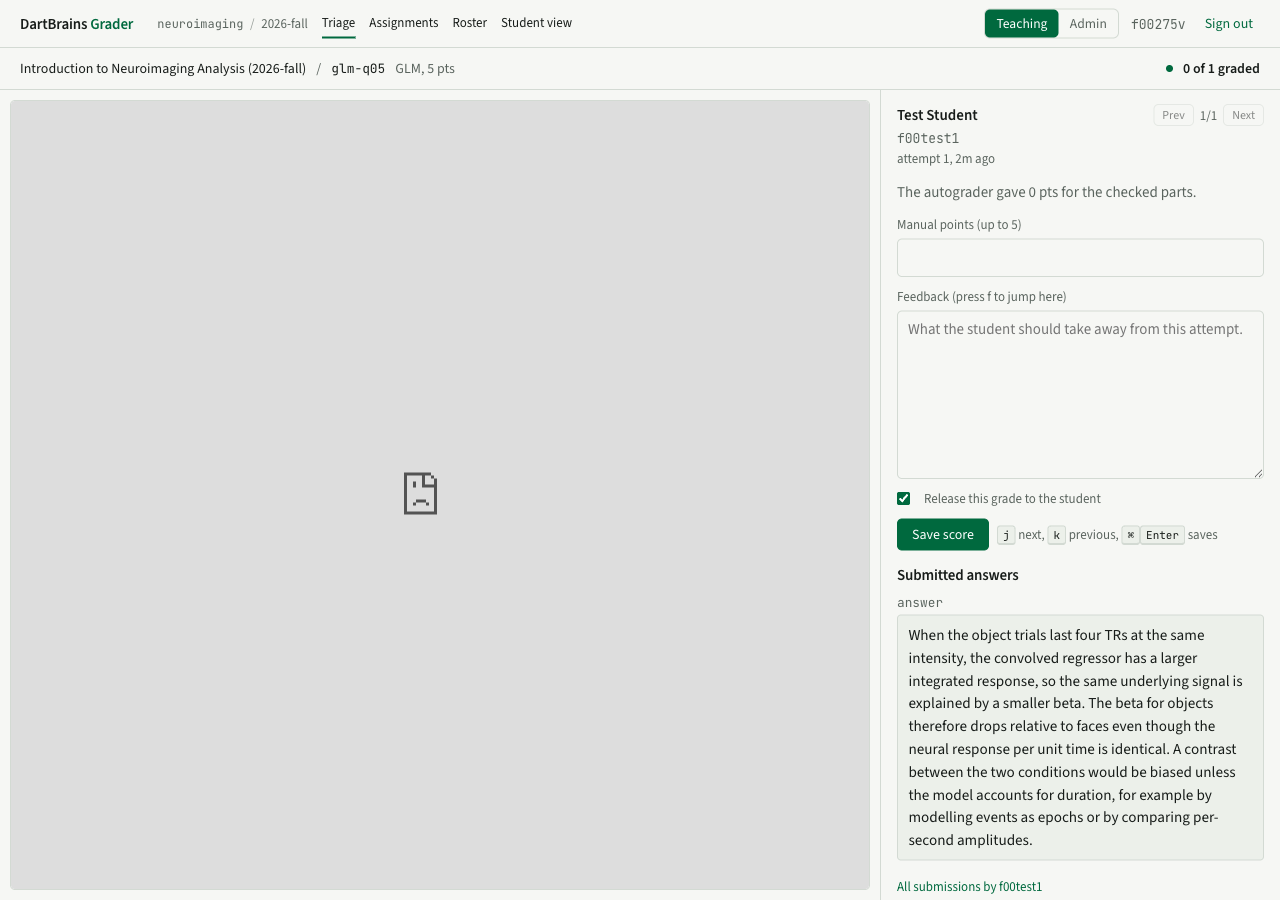
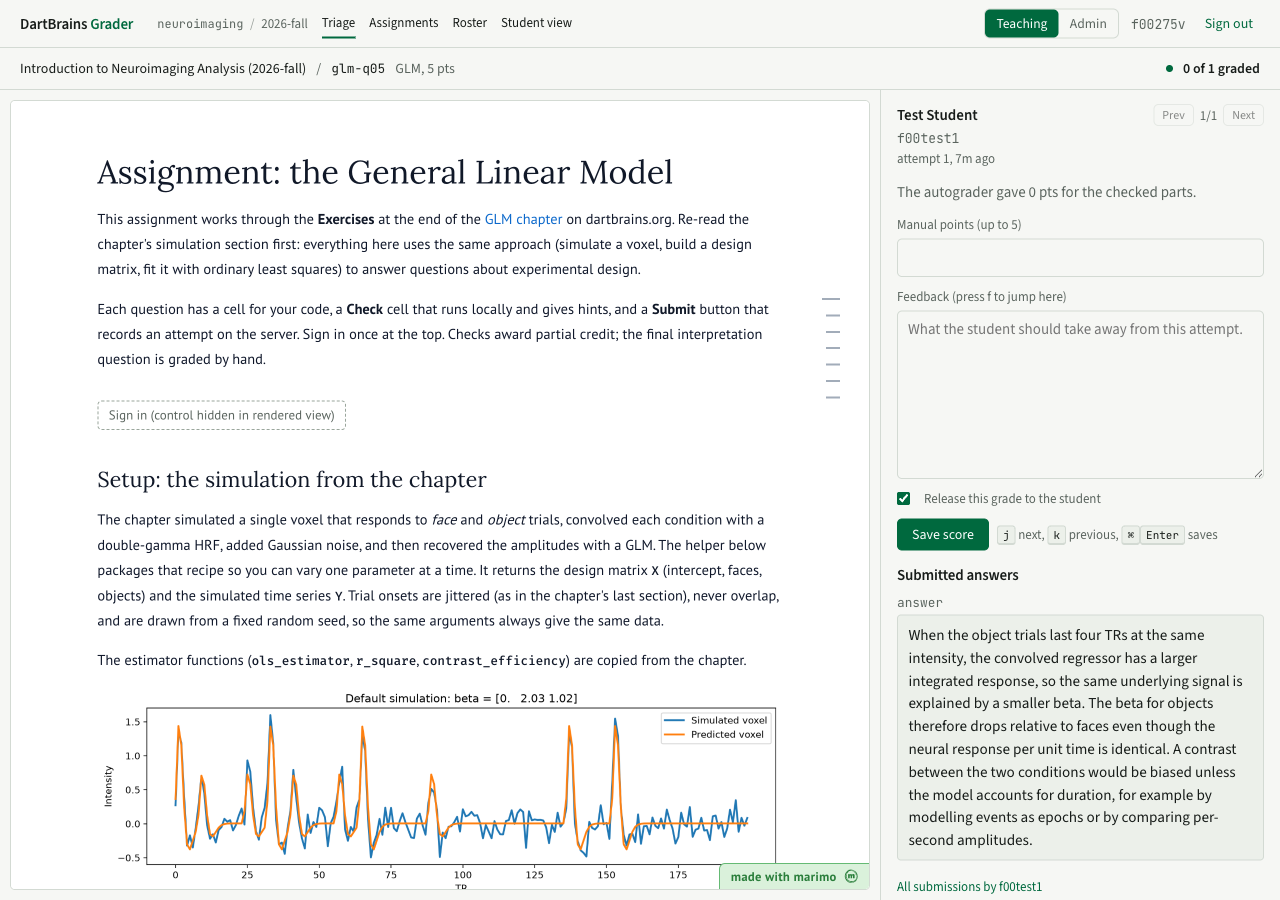
Docs: image paths for nested pages, grading queue screenshot with the rendered notebook
Claude-Session: https://claude.ai/code/session_01LxQNaj6rRGwBGe138hd53U

diff --git a/docs/content/instructors/grading.md b/docs/content/instructors/grading.md
@@ -6,7 +6,7 @@ For instructors and TAs. Where to look, what to grade, and how scores become gra
 
 The course page answers one question first: who needs my attention? A list at the top shows only the items that need a person:
 
-![The course page: a Needs attention list above the class progress grid, one column per question](../images/course-page.png)
+![The course page: a Needs attention list above the class progress grid, one column per question](../../images/course-page.png)
 
 The screenshot shows a course with one assignment open and nothing waiting: the attention list collapses to a single line and the grid carries the detail.
 
@@ -23,7 +23,7 @@ Below it, **Class progress** is a grid of students by question for the selected 
 
 Each hand-graded or hybrid question has a queue: one entry per student, showing their latest attempt, ungraded ones first and oldest first.
 
-![The grading queue: the rendered notebook on the left, score, feedback, and the student's written answer on the right](../images/grading-queue.png)
+![The grading queue: the rendered notebook on the left, score, feedback, and the student's written answer on the right](../../images/grading-queue.png)
 
 The rendered notebook fills the left pane; the right pane holds the score, the feedback box, and any written answers the student submitted.
 

diff --git a/docs/content/instructors/roster-and-staff.md b/docs/content/instructors/roster-and-staff.md
@@ -11,7 +11,7 @@ Students are never typed in by hand. The roster page imports a file, shows you e
 3. Review the four lists: students to add, students to drop, section moves, and rows that could not be matched. Untick anything you do not want applied.
 4. Press **Apply**.
 
-![The roster page: import from Canvas or Banner, add teaching staff, and the current roster](../images/roster.png)
+![The roster page: import from Canvas or Banner, add teaching staff, and the current roster](../../images/roster.png)
 
 Matching uses the SIS Login ID, which is the NetID at Dartmouth. The upload is also kept as the template for [Canvas export](canvas-export.md), so the first import doubles as setup for grade export.
 

diff --git a/docs/content/students/open-an-assignment.md b/docs/content/students/open-an-assignment.md
@@ -38,7 +38,7 @@ The `--sandbox` flag reads the dependency list inside the notebook and builds an
 
 Whichever way you opened it, the notebook has the same shape:
 
-![An assignment page on the course website, with the launch buttons in the header and the sign-in control at the top of the notebook](../images/dartbrains-assignment-page.png)
+![An assignment page on the course website, with the launch buttons in the header and the sign-in control at the top of the notebook](../../images/dartbrains-assignment-page.png)
 
 - An introduction and a **Sign in** button near the top.
 - One section per question. Each has a place for your work, a **Check** cell that runs instantly, and a **Submit** button.

diff --git a/docs/content/students/sign-in-and-submit.md b/docs/content/students/sign-in-and-submit.md
@@ -38,7 +38,7 @@ Instructors sometimes republish an assignment mid-term to fix a typo or a test. 
 
 Feedback appears in the notebook right after grading, and it also stays on the grader's website even after your MoLab session is gone. Open the grader and sign in to see every assignment, every attempt, its score, and the instructor's comments.
 
-![Your work: every assignment with its status, grade so far, and attempts, with a link to feedback](../images/student-view.png)
+![Your work: every assignment with its status, grade so far, and attempts, with a link to feedback](../../images/student-view.png)
 
 ## If something goes wrong
 

diff --git a/docs/content/operators/deploy.md b/docs/content/operators/deploy.md
@@ -55,4 +55,4 @@ Run staging and production as separate hosts with separate databases. Set `GRADE
 
 Sign in with an operator link (see [Single sign-on](../operators/single-sign-on.md)), switch to Admin mode, and create the first course and offering. Everything on this page is platform-level; no student data appears here.
 
-![The admin page: courses with their offerings and instructors, and forms to add each](../images/admin-courses.png)
+![The admin page: courses with their offerings and instructors, and forms to add each](../../images/admin-courses.png)

diff --git a/docs/content/instructors/publish.md b/docs/content/instructors/publish.md
@@ -46,7 +46,7 @@ If your course site shows the student notebook (DartBrains commits the file into
 
 Settings live on the grader, not in the notebook, so they change without republishing. Edit them on the Assignments page or through the API:
 
-![The assignments page: each published assignment with its version, questions, and settings](../images/assignments.png)
+![The assignments page: each published assignment with its version, questions, and settings](../../images/assignments.png)
 
 | Setting | Meaning | Default |
 |---|---|---|
